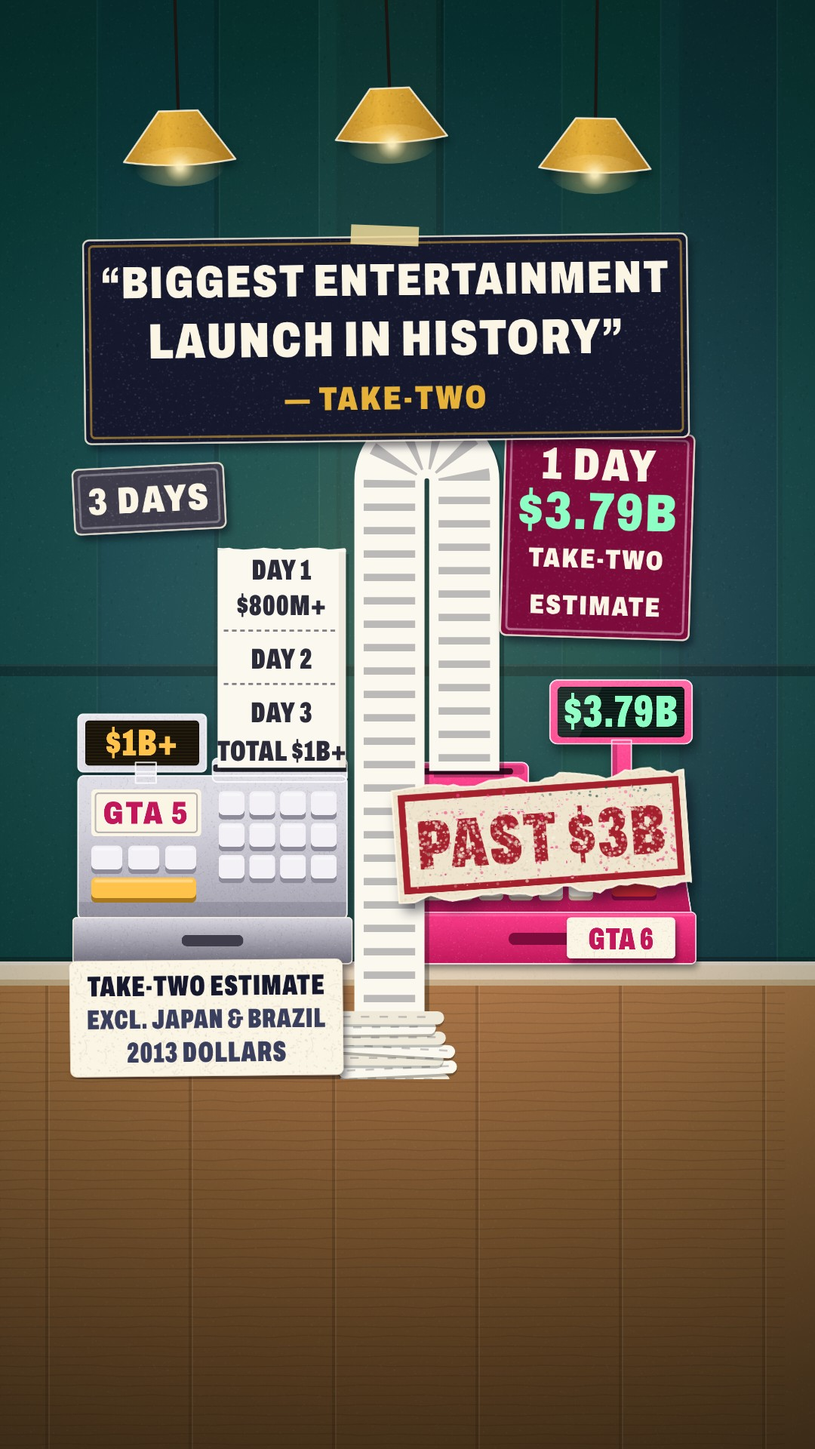
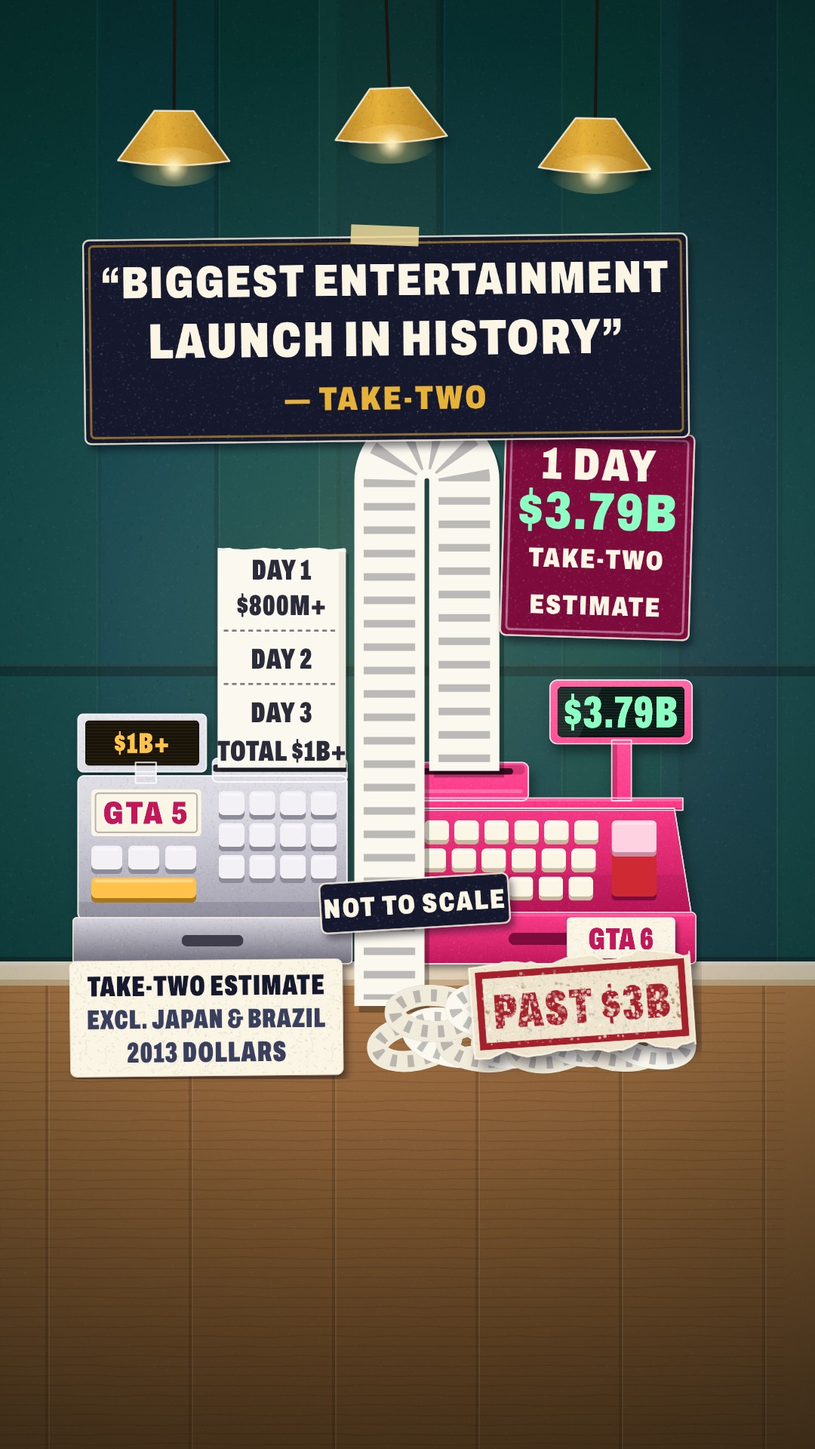
gta-daysales: jury r1 fixes 1-9 (picture and sound; voice unchanged)
Tape pours off the counter and piles in loops (y 1300-1440) with printer
chatter, ka-ching with PAST $3B (now ~70 %, on the pile) and a NOT TO SCALE
tag; 3 DAYS peels when the quote lands; display reads DAY 1 SALES at the hook
and loop, hero ka-ching + drawer pop on IN ONE DAY at 1.08 s; ask beat with the
register at 0.76, a 260 px ? card and an empty GTA 5 stub printing in the slot;
GTA 5 hits ($800M+ slap, DAY 2 / DAY 3 print ticks, $1B+ flip on the stamp) and
display padding; YES · DAY ONE / NOT YET at 50 px, gone before the seam; faster
lamp sway and a display flicker every ~5.5 s; receipt header 48-56 px.

Claude-Session: https://claude.ai/code/session_0183o4NWx4W2jhhFZUootGpn

diff --git a/film/gta-daysales/film.js b/film/gta-daysales/film.js
@@ -418,7 +418,6 @@
       g.fillStyle = 'rgba(125,12,61,.35)'; g.fillRect(150, -470, 12, 122);
       rr(g, 34, -592, 272, 108, 10); g.fillStyle = '#0c1816'; g.fill();
       g.fillStyle = 'rgba(141,255,196,.08)'; for (var y = -588; y < -486; y += 6) g.fillRect(36, y, 268, 2);
-      ptxt(g, rec, '$3.79B', 170, -536, 96, MINT, { st: 'extra-condensed', ls: 2 });
       g.fillStyle = 'rgba(255,255,255,.08)'; g.beginPath(); g.moveTo(34, -592); g.lineTo(130, -592); g.lineTo(80, -484); g.lineTo(34, -484); g.closePath(); g.fill();
     } });
     wordsOf(D.pBody, rec);
@@ -432,6 +431,8 @@
       g.fillStyle = 'rgba(0,0,0,.35)'; g.fillRect(-316, -40, 632, 8);
     } });
     D.n6 = cardPiece(230, 86, CRM, [['GTA 6', 66, PINK2, 4]], { r: 8 });
+    function pdisp(s0, px) { var r0 = []; var pc = piece([-136, -50, 136, 50], function (g) { g.beginPath(); g.rect(-136, -50, 272, 100); }, 'rgba(0,0,0,0)', { shadow: false, grain: 0, edge: false, extra: function (g) { ptxt(g, r0, s0, 0, 2, px, MINT, { st: 'extra-condensed', ls: 2 }); } }); return wordsOf(pc, r0); }
+    D.pdA = pdisp('DAY 1 SALES', 50); D.pdB = pdisp('$3.79B', 96);
 
     rec = [];
     D.gBody = piece([-272, -486, 272, -88], function (g) {
@@ -456,7 +457,7 @@
     } });
     wordsOf(D.gBody, rec);
     D.gDrw = piece([-272, -90, 272, 0], function (g) { rr(g, -272, -90, 544, 90, 8); }, function (g) { var gr = g.createLinearGradient(0, -90, 0, 0); gr.addColorStop(0, GREYF); gr.addColorStop(1, GREY2); return gr; }, { sy: 8, blur: 12, edge: 2.4, extra: function (g) { rr(g, -60, -56, 120, 22, 10); g.fillStyle = GREYD; g.fill(); } });
-    function disp(s) { var r0 = []; var pc = piece([-110, -40, 110, 40], function (g) { g.beginPath(); g.rect(-110, -40, 220, 80); }, 'rgba(0,0,0,0)', { shadow: false, grain: 0, edge: false, extra: function (g) { ptxt(g, r0, s, 0, 2, 74, AMBER, { st: 'extra-condensed', ls: 2 }); } }); return wordsOf(pc, r0); }
+    function disp(s) { var r0 = []; var pc = piece([-110, -40, 110, 40], function (g) { g.beginPath(); g.rect(-110, -40, 220, 80); }, 'rgba(0,0,0,0)', { shadow: false, grain: 0, edge: false, extra: function (g) { ptxt(g, r0, s, 0, 2, 56, AMBER, { st: 'extra-condensed', ls: 2 }); } }); return wordsOf(pc, r0); }
     D.g800 = disp('$800M+'); D.g1b = disp('$1B+');
   }
   /* a register drawn at (x, CTOP) in screen space with scale s. o: { drawer 0..1, plate a, tape fn(g) } */
@@ -466,6 +467,7 @@
     if (o.tape) o.tape(g, 'back');
     if (dr > 0) put(g, D.pGap, 0, -110 + 36 * dr);
     putW(g, D.pBody, 0, 0);
+    if (o.disp) { g.save(); g.globalAlpha *= o.da == null ? 1 : o.da; g.translate(170, -536); g.scale(o.dk || 1, o.dk || 1); putW(g, o.disp, 0, 0); g.restore(); }
     g.save(); g.translate(0, 30 * dr); g.scale(1 + .035 * dr, 1 + .035 * dr); put(g, D.pDrw, 0, 0);
     if (o.plate > 0) { g.globalAlpha *= o.plate; putW(g, D.n6, 170, -55); }
     g.restore();
@@ -486,14 +488,15 @@
     buildRegisters();
     D.oneday = buildStamp(['IN ONE DAY'], 104, 620, OXI);
     D.est0 = chipPiece([['TAKE-TWO ESTIMATE', 50, INK, 3], ['WORLDWIDE · THRU NOV 19, 2026', 36, '#3b3f5e', 2]], 600, CRM, INK, { lh: 54, pad: 22 });
-    D.q = cardPiece(230, 230, INK, [['?', 190, CRM, 6]], { ring: 'rgba(251,245,230,.35)' });
+    D.q = cardPiece(260, 260, INK, [['?', 214, CRM, 6]], { ring: 'rgba(251,245,230,.35)' });
     D.y2013 = datePiece('SEPT', '2013', 250, GREY2);
     D.fine5 = chipPiece([['TAKE-TWO ESTIMATE', 38, INK, 1, 'extra-condensed'], ['EXCL. JAPAN & BRAZIL', 38, '#3b3f5e', 1, 'extra-condensed'], ['2013 DOLLARS', 38, '#3b3f5e', 1, 'extra-condensed']], 360, CRM, INK, { lh: 44, pad: 20 });
     D.days3 = chipPiece([['3 DAYS', 60, CRM, 3]], 200, GREYD, CRM, { lh: 66, pad: 20, ring: 'rgba(255,255,255,.3)' });
     D.day1 = chipPiece([['1 DAY', 60, CRM, 3], ['$3.79B', 76, MINT, 2], ['TAKE-TWO', 36, CRM, 2], ['ESTIMATE', 36, CRM, 2]], 250, PINKD, CRM, { lh: 62, pad: 24, ring: 'rgba(255,220,235,.45)' });
-    D.past3 = buildStamp(['PAST $3B'], 110, 330, OXI);
+    D.past3 = buildStamp(['PAST $3B'], 110, 232, OXI);
+    D.nts = band('NOT TO SCALE', 250, 38, INK, CRM, 2);
     D.quote = chipPiece([['“BIGGEST ENTERTAINMENT', 66, CRM, 2], ['LAUNCH IN HISTORY”', 66, CRM, 2], ['— TAKE-TWO', 44, MUST, 3]], 800, INK, CRM, { lh: 78, pad: 36, ring: 'rgba(231,178,58,.55)' });
-    D.yes = band('DAY ONE', 300, 60, CRM, INK, 3); D.no = band('NOT YET', 300, 60, CRM, INK, 3);
+    D.yes = band('YES · DAY ONE', 350, 50, CRM, INK, 2); D.no = band('NOT YET', 350, 50, CRM, INK, 2);
   }
   function buildBackdrop() {
     var c = mk(W, H), g = c.getContext('2d'), r = mulberry(23);
@@ -520,7 +523,7 @@
   /* =====================================================================================================
      THE TAPE
      ===================================================================================================== */
-  var ROWS = [], GROWS = [];
+  var ROWS = [], GROWS = [], STUB = []; for (var si = 14; si < 400; si += 30) STUB.push({ s: si, bars: true, a: 30 + 60 * hash(si + 3), b: 20 + 24 * hash(si + 7) });
   /* hook and est (pink register, tape rising; past the cap it rolls back over a curl) */
   function rowsUp(g, Lt, cap, rows, sx, sy, tw, t, curlTop) {
     var vis = Math.min(Lt, cap), y0 = sy - vis;
@@ -605,9 +608,9 @@
   /* the pink register's place: centre 1.05 (hook, est, end) or right .58 (ask..rec) */
   var BIGS = 1.1, SMS = .62, SMX = 716, GX = 280, GS = .68;
   function pinkPose(t) {
-    var k = eio(seg(t, T.ask, T.ask + .5)), kb = eio(seg(t, T.endIn, T.endIn + .5));
-    var m = k * (1 - kb);
-    return { x: lerp(510, SMX, m), s: lerp(BIGS, SMS, m), m: m };
+    var k = eio(seg(t, T.ask, T.ask + .5)), k2 = eio(seg(t, T.gDrop - .5, T.gDrop - .1)), kb = eio(seg(t, T.endIn, T.endIn + .5));
+    var m = k * (1 - kb), mv = (k > 0 && k < 1) || (k2 > 0 && k2 < 1) || (kb > 0 && kb < 1);
+    return { x: lerp(510, lerp(676, SMX, k2), m), s: lerp(BIGS, lerp(.76, SMS, k2), m), m: mv ? .5 : 0 };
   }
   function drawerAt(t) { var d = 0; (T.drw || []).forEach(function (p) { var u = t - p[0]; if (u >= 0 && u < p[1] + .3) d = Math.max(d, u < .1 ? eo(u / .1) : 1 - eio(seg(u, p[1], p[1] + .3))); }); return d; }
 
@@ -617,7 +620,7 @@
   function lamps(g, t) {
     var nr = NOREC; NOREC = true;
     [[230, 150, 0], [510, 120, 1.7], [790, 160, 3.1]].forEach(function (L) {
-      var a = .05 * osc(t, 2, L[2]) + .02 * osc(t, 5, L[2] * 2);
+      var a = .028 * osc(t, 7, L[2]) + .012 * osc(t, 13, L[2] * 2);
       g.save(); g.translate(L[0], 0); g.rotate(a);
       g.fillStyle = '#1b1410'; g.fillRect(-2, 0, 4, L[1]);
       put(g, D.shade, 0, L[1]);
@@ -645,18 +648,24 @@
     if (t >= T.ask + .2 && t < T.gDrop + .05) {
       var ka = fin(t, T.ask + .25, .2) * (1 - seg(t, T.gDrop - .25, T.gDrop));
       g.save(); g.globalAlpha *= ka; g.setLineDash([16, 12]); g.strokeStyle = 'rgba(251,245,230,.75)'; g.lineWidth = 4;
-      g.beginPath(); g.rect(GX - 272 * GS, CTOP - 366 * GS, 544 * GS, 366 * GS); g.rect(GX - 262 * GS, CTOP - 486 * GS, 250 * GS, 112 * GS); g.stroke(); g.setLineDash([]); g.restore();
+      g.beginPath(); g.rect(GX - 272 * GS, CTOP - 366 * GS, 544 * GS, 366 * GS); g.rect(GX - 262 * GS, CTOP - 486 * GS, 250 * GS, 112 * GS); g.stroke(); g.setLineDash([]);
+      /* an empty GTA 5 receipt stub prints into the slot */
+      g.save(); g.translate(GX, CTOP); g.scale(GS, GS); g.fillStyle = 'rgba(251,245,230,.5)'; g.fillRect(G_SX - G_TW / 2 - 10, G_SY - 6, G_TW + 20, 12);
+      var nrs = NOREC; NOREC = true; rowsUp(g, 30 + 110 * eio(seg(t, T.ask + .7, T.ask + 1.5)) + 14 * Math.max(0, t - T.ask - 1.5), 900, STUB, G_SX, G_SY, G_TW, t); NOREC = nrs; g.restore();
+      g.restore();
     }
-    g.save(); var kq = kn(t, GT.q || 1e9, .06); g.translate(GX, CTOP - 400); g.scale(kq, kq); g.translate(-GX, -(CTOP - 400)); slapOn(g, D.q, GX, CTOP - 400, .04, T.q, T.gDrop - .3, t); g.restore();
+    g.save(); var kq = kn(t, GT.q || 1e9, .06); g.translate(GX, CTOP - 560); g.scale(kq, kq); g.translate(-GX, -(CTOP - 560)); slapOn(g, D.q, GX, CTOP - 560, .04, T.q, T.gDrop - .3, t); g.restore();
     stampOnP(g, D.y2013, 232, 720, -.04, T.y13, T.slowIn, t);
     /* ---- the pink register ---- */
     nr = NOREC; NOREC = nr || moving;
     var pr = pp;
     g.save();
     if (dim > 0) g.globalAlpha *= 1 - .45 * dim;
-    pinkReg(g, pr.x, pr.s, { drawer: drawerAt(t), plate: fin(t, T.ask + .4, .2) * (1 - seg(t, T.endIn, T.endIn + .2)), tape: function (q, layer) { pinkTape(q, t, layer); } });
+    var dsw = T.ask + .3, dB = t >= dsw && t < T.endIn + .35, fl = Math.sin(TAU * 5 * t / DUR + .7) > .994 ? .4 : 1;
+    pinkReg(g, pr.x, pr.s, { disp: dB ? D.pdB : D.pdA, dk: dB ? kn(t, dsw, .12) : kn(t, T.endIn + .35, .12), da: fl, drawer: drawerAt(t), plate: fin(t, T.ask + .4, .2) * (1 - seg(t, T.endIn, T.endIn + .2)), tape: function (q, layer) { pinkTape(q, t, layer); } });
     g.restore();
     NOREC = nr;
+    loops(g, t);
     /* the torn est receipt flies off (ask) */
     if (t >= T.tear && t < T.tear + .6) {
       var kt = eio(seg(t, T.tear, T.tear + .55)), Lf = pinkLt(T.tear - .001);
@@ -667,18 +676,19 @@
     }
     /* ---- hook: IN ONE DAY stamp; TAKE-TWO ESTIMATE chip (hook, est) ---- */
     stampOnP(g, D.oneday, 510, 1050, -.06, T.oneday, T.out1, t);
-    if (t < T.ask + .5) { slapOn(g, D.est0, 510, 1360, .01, T.est0, T.ask, t); if (t >= T.hl && t < T.ask) hilite(g, 296, 1314, 724, 1356, eo(seg(t, T.hl, T.hl + .35))); }
+    if (t < T.ask + .5) { slapOn(g, D.est0, 510, 1360, .01, T.est0, T.ask, t); if (t >= T.hl && t < T.ask) hilite(g, 290, 1314, 742, 1356, eo(seg(t, T.hl, T.hl + .35))); }
     /* ---- old: fine print under the grey register ---- */
     if (t < T.endIn + .5) slapOn(g, D.fine5, GX - 8, 1352, -.01, T.fine5, T.endIn, t);
-    slapOn(g, D.days3, 196, 664, -.05, T.days3, T.endIn, t);
+    slapOn(g, D.days3, 196, 664, -.05, T.days3, T.quote, t);
     /* ---- fast: the GTA 6 receipt chip; PAST $3B ---- */
     slapOn(g, D.day1, 790, 712, .03, T.day1, T.endIn, t);
-    stampOnP(g, D.past3, SMX, 1110, -.07, T.past3, T.endIn, t);
+    stampOnP(g, D.past3, 770, 1334, -.07, T.past3, T.endIn, t);
+    slapOn(g, D.nts, 548, 1200, -.06, T.nts, T.endIn, t);
     /* ---- rec: the quote plate ---- */
     slapOn(g, D.quote, 510, 452, -.012, T.quote, T.endIn - .05, t, { tape: true });
     /* ---- end: equal chips; they peel off before the loop ---- */
-    slapOn(g, D.yes, 330, 1368, -.02, T.vote, T.seamL, t);
-    slapOn(g, D.no, 690, 1368, .02, T.vote + .07, T.seamL, t);
+    slapOn(g, D.yes, 296, 1368, -.02, T.vote, T.seamL, t, { od: .24 });
+    slapOn(g, D.no, 724, 1368, .02, T.vote + .07, T.seamL, t, { od: .24 });
     /* ---- the hook type (frame 0; drops back for the loop) ---- */
     if (t < T.out1 + .6) { var ty = -700 * eio(seg(t, T.out1, T.out1 + .45)); hookType(g, ty, t > T.out1); }
     if (t >= DUR - .32) { k = seg(t, DUR - .3, DUR - .04); hookType(g, -700 * (1 - k * k), k < 1); }
@@ -688,19 +698,33 @@
     if (layer === 'back') return;
     if (t < T.pour) { rowsUp(g, pinkLt(t), t < T.tear ? capAt(t) : CAP0, ROWS, P_SX, P_SY, P_TW, t); return; }
     if (t < T.endIn + .6) {
-      /* the pour: Lp grows fast then keeps streaming; when the end comes it drops away */
-      var u = t - T.pour, Lp = 2600 * eo(seg(u, 0, 1.1)) + 380 * Math.max(0, u - .4), flow = 1400 * u, yA = -(CTOP - 640) / SMS, yE = (1440 - CTOP) / SMS + 60;
+      /* the pour: shoots up out of the slot, folds over the top, runs down the counter front (the loops are drawn in screen space) */
+      var u = t - T.pour, yA = -(CTOP - 640) / SMS, yE = (1336 - CTOP) / SMS;
+      var total = (P_SY - yA) + Math.PI * ARCH_R + (yE - yA), Lp = total * eo(seg(u, 0, .8)), flow = 1100 * Math.min(u, 1.1) + 60 * Math.max(0, u - 1.1);
       var drop = eio(seg(t, T.endIn, T.endIn + .45));
       g.save(); g.translate(0, 1400 * drop / SMS);
       pour(g, Lp, flow, yA, yE);
-      var reach = (P_SY - yA) + Math.PI * ARCH_R + (yE - yA) - 300;
-      var n = Math.min(9, Math.floor(Math.max(0, Lp - reach) / 260));
-      if (n > 0) pile(g, n, P_SX - 2 * ARCH_R, (1436 - CTOP) / SMS);
       g.restore();
       if (t >= T.endIn) rowsUp(g, pinkLt(t), CAP0, ROWS, P_SX, P_SY, P_TW, t);
       return;
     }
     rowsUp(g, pinkLt(t), CAP0, ROWS, P_SX, P_SY, P_TW, t);
+  }
+  var LOOPS = [[548, 1384], [594, 1378], [640, 1386], [686, 1380], [732, 1386], [778, 1379], [822, 1385], [858, 1380], [572, 1346], [652, 1342], [732, 1346], [810, 1342]];
+  function loops(g, t) {
+    if (t < T.pour + .5 || t > T.endIn + .6) return;
+    var drop = eio(seg(t, T.endIn, T.endIn + .45)), nr = NOREC; NOREC = true;
+    g.save(); g.translate(0, 900 * drop);
+    LOOPS.forEach(function (L, i) {
+      var tl = T.pour + .62 + i * .045; if (t < tl - .12) return; var k = cd(t, tl - .12, 18);
+      g.save(); g.translate(L[0], L[1] - 50 * (1 - k)); g.rotate((hash(i * 5 + 1) - .5) * .5); g.globalAlpha *= clamp(k * 3, 0, 1);
+      g.beginPath(); g.ellipse(0, 0, 50, 24, 0, 0, TAU); g.lineWidth = 28;
+      g.save(); g.translate(4, 6); g.strokeStyle = 'rgba(0,10,10,.28)'; g.stroke(); g.restore();
+      g.strokeStyle = i % 2 ? PAPERW : '#f1ebdc'; g.stroke();
+      g.setLineDash([8, 14]); g.lineWidth = 16; g.strokeStyle = 'rgba(43,43,58,.28)'; g.stroke(); g.setLineDash([]);
+      g.restore();
+    });
+    g.restore(); NOREC = nr;
   }
   function dimA(t) { return seg(t, T.slowIn, T.slowIn + .3) * (1 - seg(t, T.pour - .1, T.pour + .15)); }
   function stampOnP(g, pc, x, y, rot, tl, tout, t) { slapOn(g, pc, x, y, rot, tl, tout, t, { from: 1.6 }); }
@@ -798,7 +822,7 @@
     var o = [];
     function Tx(id, text, a, b) { if (t >= a && t < b) o.push({ id: id, text: text, x0: 0, y0: 0, x1: 0, y1: 0 }); }
     Tx('big', 'GTA 6: $3.79 BILLION', 0, T.out1); Tx('big', 'GTA 6: $3.79 BILLION', DUR - .1, DUR + 1);
-    Tx('disp', '$3.79B', 0, T.ask); Tx('disp', '$3.79B', T.ask + .5, DUR + 1);
+    Tx('dispA', 'DAY 1 SALES', 0, T.ask + .3); Tx('dispA', 'DAY 1 SALES', T.endIn + .45, DUR + 1); Tx('dispB', '$3.79B', T.ask + .4, T.endIn + .35); Tx('nts', 'NOT TO SCALE', T.nts + .1, T.endIn);
     Tx('oneday', 'IN ONE DAY', T.oneday + .1, T.out1);
     Tx('est0a', 'TAKE-TWO ESTIMATE', T.est0 + .1, T.ask); Tx('est0b', 'WORLDWIDE · THRU NOV 19, 2026', T.est0 + .1, T.ask);
     ROWS.forEach(function (r0, i) { if (r0.text) Tx('row' + i, r0.text, r0.tp + .25, T.tear); });
@@ -813,7 +837,7 @@
     Tx('day1', '1 DAY $3.79B TAKE-TWO ESTIMATE', T.day1 + .1, T.endIn);
     Tx('past3', 'PAST $3B', T.past3 + .1, T.endIn);
     Tx('quote1', '“BIGGEST ENTERTAINMENT', T.quote + .1, T.endIn - .05); Tx('quote2', 'LAUNCH IN HISTORY”', T.quote + .1, T.endIn - .05); Tx('quote3', '— TAKE-TWO', T.quote + .1, T.endIn - .05);
-    Tx('yes', 'DAY ONE', T.vote + .1, T.seamL); Tx('no', 'NOT YET', T.vote + .17, T.seamL);
+    Tx('yes', 'YES · DAY ONE', T.vote + .1, T.seamL); Tx('no', 'NOT YET', T.vote + .17, T.seamL);
     return o;
   }
 
@@ -825,18 +849,18 @@
     G('key0', .1, 'tick', .12, .7, { m: .03 });
     T.oneday = G('oneday', wend('hook', '6') + .03, 'pin', .3, 1.3, { m: .03, dur: .09 }); T.oneday = Math.min(T.oneday, 1.1);
     T.est0 = at('hook', 'billion') + .05;
-    T.ching0 = G('ching0', lastw('hook') + .1, 'ching', .35, 1.2, { m: .1 });
-    T.drw = [[T.ching0, .45]];
+    T.ching0 = G('ching0', lastw('hook') + .1, 'pin', .35, .8, { m: .1 });
+    T.drw = [[T.oneday, 1.0]];
+    EV.push({ t: T.oneday, type: 'ching', g: 1.3, id: 'ching1' });
     T.out1 = G('out1', T.ching0 + .45, 'swish', .3, .9, { m: .05 });
     /* est: the receipt prints its header as the words land */
     T.p0 = at('est', 'day') - .06;
-    var pts = [[at('est', 'day') - .02, 'DAY ONE', 46], [at('est', 'sales') - .02, 'RETAIL', 46], [at('est', 'sales') + .14, 'SALES', 46], [at('est', 'by') + .1, '$3.79B', 62]];
+    var pts = [[at('est', 'day') - .02, 'DAY ONE', 48], [at('est', 'sales') - .02, 'RETAIL', 50], [at('est', 'sales') + .14, 'SALES', 50], [at('est', 'by') + .1, '$3.79B', 56]];
     ROWS.length = 0; FEED.length = 0;
     for (var s = 16; s < L0 + HOOKV * T.p0 - 4; s += 30) ROWS.push({ s: s, bars: true, a: 40 + 70 * hash(s), b: 26 + 26 * hash(s + 9) });
     var Lrun = L0 + HOOKV * T.p0;
     pts.forEach(function (p, i) {
-      if (i === 3) { FEED.push({ t: p[0] - .14, a: 22 }); Lrun += 22; ROWS.push({ s: Lrun - 11, rule: true }); }
-      var a = p[2] + 8; FEED.push({ t: p[0], a: a }); Lrun += a;
+      var a = p[2] + 6; FEED.push({ t: p[0], a: a }); Lrun += a;
       ROWS.push({ s: Lrun - a / 2, text: p[1], px: p[2], tp: p[0], col: i === 3 ? '#0b0b14' : PRINT });
     });
     T.hl = at('est', 'taketwos');
@@ -861,21 +885,24 @@
     gfeed(at('slow', 'hit') - .02, 34, '-', 0, .25); gfeed(at('slow', 'hit') + .08, 70, 'DAY 2', 56, .3);
     gfeed(at('slow', 'three') - .1, 34, '-', 0, .25); gfeed(at('slow', 'three'), 70, 'DAY 3', 56, .3);
     gfeed(at('slow', 'days') - .02, 76, 'TOTAL $1B+', 56, .3);
-    T.g1b = at('slow', 'days') - .02;
-    T.days3 = G('days3', after('slow') - .05, 'stamp', .35, 1.1, { m: .05 });
+    T.days3 = G('days3', after('slow') - .05, 'stamp', .35, 1.1, { m: .05 }); T.g1b = T.days3;
+    EV.push({ t: T.g800, type: 'slap', g: .9, id: 'g800' });
+    EV.push({ t: at('slow', 'hit') + .08, type: 'print', g: .7, dur: .14, id: 'pd2' }); EV.push({ t: at('slow', 'three'), type: 'print', g: .7, dur: .14, id: 'pd3' });
     /* fast: the pink tape pours, pre-rolled into the pause before the line, with the ka-ching and a drawer pop */
-    T.pour = G('pour', start('fast') - .3, 'ching', .35, 1.3, { m: .04 });
-    T.drw.push([T.pour, 1.4]);
-    G('pourw', T.pour + .05, 'pour', .4, .55, { dur: .9, m: .02 });
+    T.pour = G('pour', start('fast') - .25, 'tear', .35, 1, { m: .04 });
+    T.drw.push([T.pour, 1.0]);
+    EV.push({ t: T.pour + .04, type: 'pour', g: .6, dur: 1.15, id: 'chatter' });
+    T.nts = T.pour + 1.3;
     T.day1 = at('fast', 'single') - .02;
-    T.past3 = G('past3', after('fast') + .02, 'stamp', .35, 1.4, { m: .05 });
+    T.past3 = G('past3', after('fast') + .02, 'stamp', .35, 1.1, { m: .05 });
+    EV.push({ t: T.past3, type: 'ching', g: 1.1, id: 'ching6' });
     /* rec: the quote plate drops (captions off; the plate is the line) */
     T.quote = G('quote', start('rec') - .4, 'slap', .3, 1.2, { m: .04 }); T.quote = Math.min(T.quote, start('rec') - .3);
     /* end: everything drops away; the pink register returns to the frame-0 place; YES / NOT YET (equal) */
     T.endIn = G('endIn', after('rec') - .05, 'tear', .3, 1, { m: .04 });
     G('chips', wend('end', 'it') + .12, 'pin', .45, .9, { m: .03 });
-    T.vote = start('end') - .03;
-    T.seamL = DUR - .34; T.capEnd = DUR - .34;
+    T.vote = T.endIn + .03;
+    T.seamL = DUR - .31; T.capEnd = DUR - .34;
     G('seam', DUR - .06, 'thock', .25, .8);
     STRESS = [['est', 'day'], ['est', 'estimate'], ['ask', 'lot'], ['old', '2013'], ['old', '800'], ['slow', 'billion'], ['slow', 'three'], ['fast', 'three'], ['fast', 'single'], ['end', 'buy'], ['end', 'day']].map(function (p) { return at(p[0], p[1]); });
     EV.sort(function (a, b) { return a.t - b.t; });

diff --git a/film/gta-daysales/JURY.md b/film/gta-daysales/JURY.md
@@ -1,0 +1,42 @@
+# gta-daysales: jury, round 1 (2026-11-21)
+
+Fresh-eyes jury. I did not make this film. Checked: `out/gta-daysales-vo.mp4` (27.4 s, 1080x1920), check sheet, poster, my own frames at 0.0 / 1.0 / 2.0 / 2.5 / 7.6 / 8.0 / 12 / 16 / 19 / 24 / 26.9 / 27.36 s, `vo/script.json`, BRIEF, TREATMENT, `out/pace.txt`, `out/events.json`, `out/mix.log`, ebur128 and blackdetect.
+
+Objective: pacecheck OK (motion 0-1 s 0.391, 0-3 s 0.52, no frozen stretch). -13.9 LUFS, true peak -2.7 dBTP. No black frames. Whisper in-mix 8/8 lines WER 0. No footage, no music, no logos or key art. Loop seam: mean diff 2.25 between t=0 and t=27.36 (LESSONS target is under 2; borderline).
+
+## Sources re-read by the jury today
+- Take-Two IR release, Nov 20 2026 (HTTP 200): "Grand Theft Auto VI day one retail sales* reached $3.79 billion, setting a new record for entertainment across any medium, and becoming the biggest entertainment launch in history." Footnote: "*based on company estimates through end of day November 19th worldwide". Matches.
+- SEC 8-K Ex 99.1, Sept 18 2013: "first day sell-through of more than $800 million worldwide, excluding the upcoming launch in Japan and Brazil". Matches.
+- SEC 8-K Ex 99.1, Sept 20 2013: "worldwide retail sales of more than $1 billion during its first three days on sale, according to Company estimates." Matches.
+
+## Scores
+| Criterion | Score | Why |
+|---|---|---|
+| Hook | 7.0 | Frame 0 is `GTA 6: $3.79 BILLION` (4 words, big) over a full-width pink register, and the `IN ONE DAY` stamp lands at 1.08 s, so the launch-week rule passes and there is no cap. But "$3.79 billion of what?" goes unanswered with the sound off until `DAY ONE RETAIL SALES` prints at about 5 s. The search phrase "GTA 6 sales" is not on screen by 2 s. The `$3.79B` display just repeats the headline, so the frame says the same thing twice. |
+| Retention | 7.0 | Something changes about every 1.5 s, and there are re-hooks at the 2013 card (9.4 s) and the pour (17.9 s). From 7.0 to 9.4 s the screen is weak: one small register, a dashed outline and an empty wall from y 500 to 880. From 9.4 to 17.4 s (GTA 5's two lines, 8 s) the screen is grey and slow and gets only two SFX. |
+| Clarity | 7.5 | A 14-year-old gets "GTA 6 did in 1 day what GTA 5 needed 3 days to get a third of". But the DM frame (20-24 s) stacks six reads at once: quote plate, `3 DAYS`, the GTA 5 tape, the fine-print card, the `1 DAY $3.79B TAKE-TWO ESTIMATE` chip and the `PAST $3B` stamp. The stamp covers the whole GTA 6 register. |
+| Truth | 9.0 | Every number traces to the three releases. The hedges are kept: `+` on GTA 5, `EXCL. JAPAN & BRAZIL`, `2013 DOLLARS`, `TAKE-TWO ESTIMATE` on each GTA 6 number, the quote is attributed, and the voice says "one day", never "24 hours". Small dings: (a) the voice uses "made" for retail sell-through (stores' takings, not Take-Two's revenue); (b) the GTA 6 tape is drawn about 5x longer than GTA 5's day-one tape, a visual ratio the BRIEF chose not to voice ("more than" has no upper bound), and no `NOT TO SCALE` note goes with it. |
+| Motion & design craft | 6.0 | The cut-paper checkout set is new and reads as hand-made. Docked: the `$800M+` display text overflows its window at the left edge (about 12-17 s). The heroes in the middle beats are 370-420 px wide (LESSONS #37: a hero under 700 px reads as stock). **Repeat (-1):** the lower third (kraft front, y 1300-1920) is empty for the whole film (LESSONS #34: an empty lower third). The treatment's "tape pours off the counter and piles on the floor" never happens: the tape makes an arch and stops on the counter top. Three identical lamps sit on every frame. |
+| Voice & sound | 7.0 | "G T A six" lands in the first second. The pace is tight, the longest gap is 0.92 s and Whisper heard every word. Only 14 hits in 27 s. The hook's hero ka-ching is at 3.14 s, not on the `IN ONE DAY` stamp at 1.08 s (that gets a light "pin"). There is no hit on the `$800M+` display slam or on the `$1B+` flip. |
+| Loop & ending | 7.5 | "Did you buy it on day one?" loops cleanly into "GTA 6. $3.79 billion. One day.", and the last frame returns to the frame-0 layout. The seam diff is 2.25, just over the target. The chips read `DAY ONE / NOT YET`, but the brief said `YES · DAY ONE`, and on their own they do not read as answers. |
+| Shareability | 7.0 | The two-receipt idea is DM-able, but as built the GTA 6 tape reads as a white column or arch hidden behind chips and a stamp. It is not a tape spilling off the counter, so the screenshot moment is muddy. |
+
+**Overall: 7.25, reported as 7.2** (mean of 7.0, 7.0, 7.5, 9.0, 6.0, 7.0, 7.5, 7.0; never rounded up). **Truth 9.0.**
+**Gate: PASS** (7.0+ and Truth 8.5+). **Verdict: fix then post.**
+Previous Delta number Short (gta-streampeak) scored r1 7.06 / Truth 8.5. This one is slightly better and has stronger Truth hygiene, but it repeats the empty lower-third lesson.
+
+## Fixes, ranked by impact
+1. **17.85-21.5 s, the tape run (wow).** Make the GTA 6 tape really pour. On "passed" it should shoot up out of the slot, fold over the register top, then run down the counter front and pile into loose loops on the kraft from y 1300 to 1440 (keep it inside x 90-930 and above y 1450). It should settle once by 19.0 s. Add 4-6 printed line ticks a second streaming down it and continuous printer chatter under it (gain 0.6), ending in the ka-ching on "single day". This fills the dead lower third (fixes the repeat) and makes the DM frame.
+2. **20.0-24.8 s, DM frame clutter.** Shrink `PAST $3B` to about 70 % and move it onto the tape pile at y ~1350, so it stops covering the GTA 6 register. Peel the `3 DAYS` tag when the quote plate lands (21.45 s). At most 4 reads on screen: quote, GTA 5 receipt, GTA 6 tape, one `1 DAY · $3.79B` chip.
+3. **0.0-2.0 s, hook for sound-off.** Change the display or a small line under the headline to `DAY 1 SALES` so the search phrase "GTA 6 sales" reads by 2 s. Keep the headline at 4 words, for example headline `GTA 6: $3.79 BILLION` and the display `DAY 1 SALES` instead of a second `$3.79B`. Move the hero ka-ching (bell plus drawer pop, gain 1.3) onto the `IN ONE DAY` stamp at 1.08 s, in the gap between "six" and "three point", and keep a lighter tick at 3.14.
+4. **7.0-9.4 s, the empty ask beat.** The register is about 420 px and there is an empty wall from y 500 to 880. Scale the GTA 6 register to 0.8 (not 0.6), put the `?` card at about 260 px in the dashed slot at y ~700, and print an empty GTA 5 receipt stub in the slot so something prints into it (LESSONS #34/#35 slot rule). The dashed slot must stay up for 1 s or more before the 2013 register drops in.
+5. **9.4-17.4 s, the grey GTA 5 stretch.** Add hits: a slam on the `$800M+` display on "million" (~11.9 s, gain 1.1), a print tick for each of `DAY 2` and `DAY 3` (~15.6 and ~16.6 s), and a stamp on the `$1B+` flip on "three days". Re-pace the display text so `$800M+` and `$1B+` fit inside the display window with at least 12 px of padding (it overflows on the left now).
+6. **Truth polish, 18-24 s.** Add a `NOT TO SCALE` note (36 px or more) at the foot of the GTA 6 tape, or make the tape length exactly 3.79/0.80 of the GTA 5 day-1 tape and label it `LENGTH ∝ $`. Optionally change the voiced "made" in `old` to "sold" ("GTA 5 sold over $800 million on day one"). That matches "sell-through" and avoids reading as revenue.
+7. **25.0-27.4 s, end chips.** Use `YES · DAY ONE` / `NOT YET` (as the brief says) at 44 px or more, with equal colour. Bring the seam diff under 2 (match the encoded last frame to the encoded first frame, LESSONS #34).
+8. **All beats, set life.** The three lamps are identical and static on every frame. Give them a slow 1-2° sway with offset phases, and let the receipt-paper curl or the display flicker once every 4-6 s. Without that, the paper set looks like a template between hits.
+9. **4.0-6.9 s, est receipt.** The receipt header lines are about 30 px at full res on the GTA 6 slip (`DAY ONE / RETAIL / SALES / $3.79B`). Bring them to 44 px or more as the brief planned, and print them on their words ("day one sales" → `DAY ONE RETAIL SALES`, "estimate" → the `TAKE-TWO ESTIMATE` chip highlight).
+
+## Generic or AI-made tells
+- The caption strips are torn-paper labels with one highlighted word, the same caption system as every other Delta film. That is fine, but with no tape spill the film reads as "two icons plus captions".
+- Symmetric triple pendant lamps on every frame: decoration with no job.
+- The `PAST $3B` grunge rubber stamp is the house stamp from gta-99 and gta-streampeak. A third film in a row with the same stamp texture is starting to feel like a template.

diff --git a/film/gta-daysales/seo.md b/film/gta-daysales/seo.md
@@ -1,0 +1,58 @@
+# SEO and posting text: GTA 6 made $3.79 billion in one day
+
+Channel: **Delta** (YouTube @deltaisac) only. Upload `out/gta-daysales-vo.mp4` (voice + sound effects, no music). Altered content: No. Made for kids: No. Language: English (US). Category: Gaming. Written 2026-11-21 (day 3 after launch) for a US audience. Facts and sources: `BRIEF.md`.
+
+**Before posting:** re-open the Take-Two release. If the $3.79 billion figure was revised, hold the film and re-voice the hook. Never write "24 hours" anywhere: the window is "through end of day November 19th worldwide".
+
+## YouTube Shorts title
+GTA 6 Made $3.79 Billion in One Day 🤯
+
+Alternates (A/B or repost): "GTA 6 Made More in One Day Than GTA 5 in Three 🤯" · "GTA 6 Just Had the Biggest Launch in History 🤯" (Take-Two's claim; only with the attribution in the first description line)
+
+## Cover text
+GTA 6: $3.79 BILLION
+
+## Description
+GTA 6 made $3.79 billion in day one retail sales. That is Take-Two's own company estimate, counted through the end of day on November 19, 2026, worldwide. It is retail sales (what stores and digital storefronts took in), not Take-Two's profit, and not a count of copies.
+
+Take-Two calls it "the biggest entertainment launch in history" and "a new record for entertainment across any medium". That is Take-Two's claim.
+
+For scale, GTA 5 in 2013: more than $800 million on its first day (excluding Japan and Brazil, which launched later), and more than $1 billion after its first three days. Both are Take-Two estimates too, in 2013 dollars, not adjusted for inflation. So GTA 6 passed three billion in a single day.
+
+Did you buy GTA 6 on day one? Yes or not yet?
+
+Numbers as Take-Two published them on November 20, 2026 and September 18 and 20, 2013. Company estimates can be revised.
+
+Sources:
+- Take-Two Interactive, Grand Theft Auto VI Shatters Entertainment Box Office Records with $3.79 Billion in Day One Retail Sales (Nov 20, 2026, read Nov 21, 2026): https://www.take2games.com/ir/news/grand-theft-auto-vi-shatters-entertainment-box-office-records
+- Business Wire, the same release: https://www.businesswire.com/news/home/20261120446139/en/
+- Take-Two Interactive, Grand Theft Auto V Retail Sales Exceed $800 Million Worldwide During First Day of Launch (Sept 18, 2013, SEC filing, read Nov 21, 2026): https://www.sec.gov/Archives/edgar/data/0000946581/000110465913070819/a13-20938_1ex99d1.htm
+- Take-Two Interactive, Grand Theft Auto V Worldwide Sales Surpass $1 Billion In First Three Days (Sept 20, 2013, SEC filing, read Nov 21, 2026): https://www.sec.gov/Archives/edgar/data/946581/000110465913071387/a13-21085_1ex99d1.htm
+
+#GTA6 #GTAVI #GTA5 #GrandTheftAuto #Shorts
+
+Made with our own graphics. Not affiliated with Rockstar Games or Take-Two.
+
+## Hashtags
+#GTA6 #GTAVI #GTA5 #GrandTheftAuto #Shorts (5; no #ai)
+
+## Keywords
+GTA 6 sales · GTA 6 day one sales · GTA 6 3.79 billion · GTA 6 vs GTA 5 sales · GTA 6 record · biggest entertainment launch in history · GTA 5 first day sales
+
+## Playlist
+GTA 6 Facts
+
+## Pinned comment
+Did you buy GTA 6 on day one? Yes or not yet?
+
+## Post time
+Next free fresh slot: Sat Nov 21 13:00 ET (18:00 UTC, 19:00 Stockholm), 4 h after gta-streampeak at 09:00 ET; if that is taken in the queue, 19:00 ET (Sun Nov 22 00:00 UTC, 01:00 Stockholm). Launch-week news decays fast, so the earliest free slot.
+
+## Alternative hooks (A/B repost)
+1. "GTA 5 hit one billion in three days. GTA 6 passed three billion in one." (never "needed" or "took": BRIEF truth-proofing)
+2. "Is $3.79 billion in one day the biggest launch ever?" (question hook; answer with "Take-Two says" on screen)
+
+## After posting (US growth)
+1. Reply to the first US commenters within the hour with a sourced extra fact (for example: Take-Two says GTA 6 sold 32.5 million units before release, from the same Nov 20 release).
+2. A US GTA news creator could stitch the two-receipts frame (GTA 5's short receipt next to GTA 6's tape).
+3. Worth a small US-targeted Promote boost only if the first hour beats the channel's median; launch-week news decays fast.
